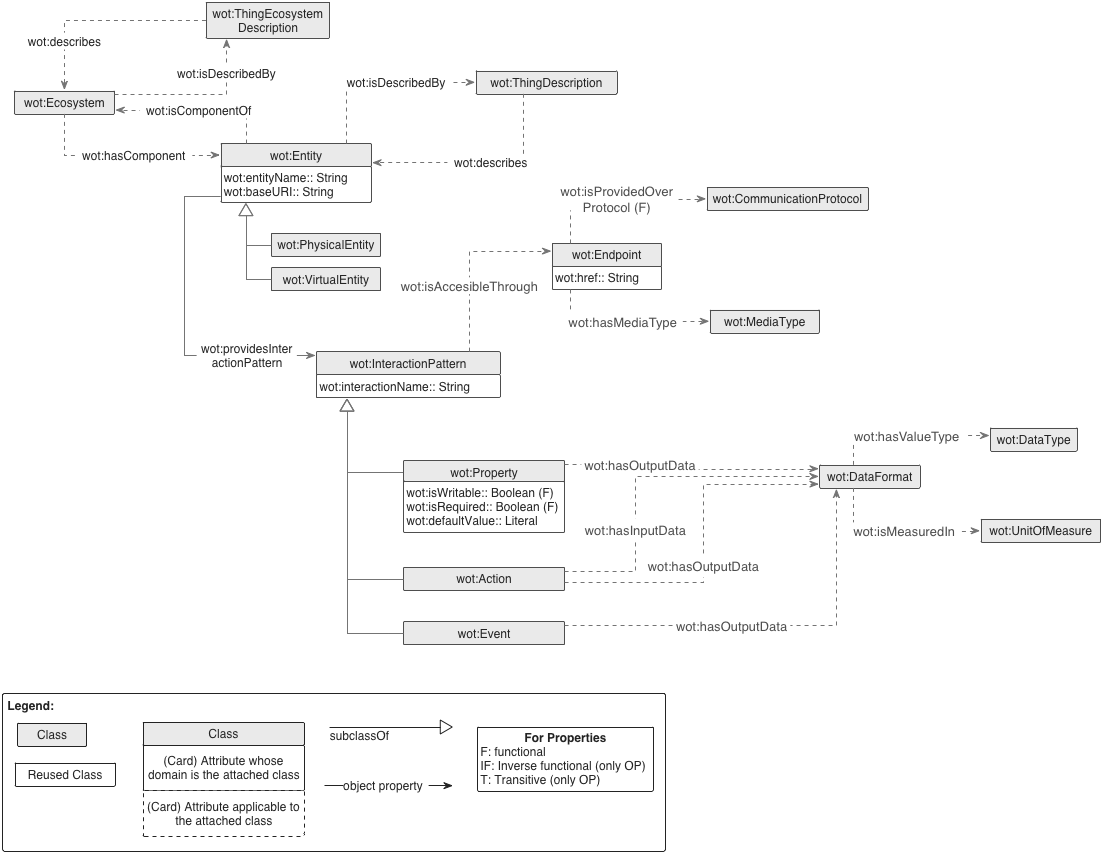
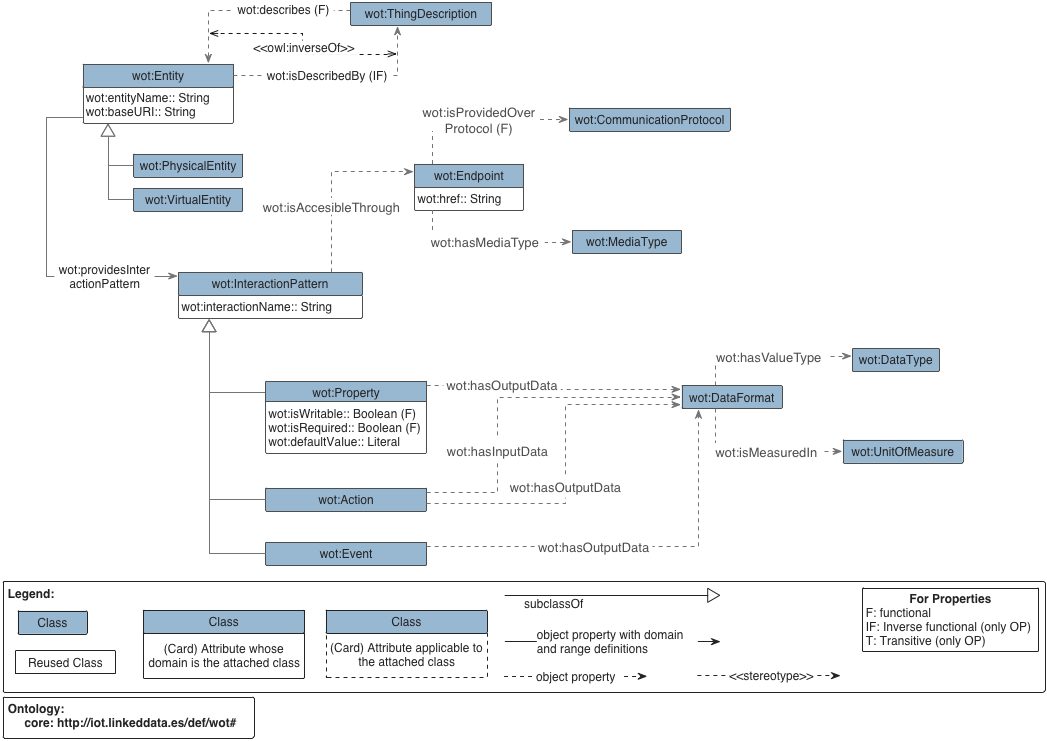
version 0.0.2

diff --git a/OnToology/ontology/wot.ttl/documentation/index-en.html b/OnToology/ontology/wot.ttl/documentation/index-en.html
@@ -22,31 +22,42 @@ function loadHash() {
     </script> 
   </head> 
 
-<body resource="[Ontology URI]" typeOf="owl:Ontology schema:TechArticle">
+<body resource="http://iot.linkeddata.es/def/wot#" typeOf="owl:Ontology schema:TechArticle">
 <span resource="" typeOf="foaf:Document schema:WebPage">
 <span property="dc:contributor prov:wasAttributedTo schema:contributor" resource="http://purl.org/net/dgarijo"></span>
 </span>
 <div class="container"><div class="head">
 <div style="float:right">language <a href="index-en.html"><b>en</b></a> </div>
-<dl><dt>Download serialization:</dt><dd><span><a href="ontology.n3" target="_blank"><img src="https://img.shields.io/badge/Format-N_Triples-blue.svg"</img></a> </span><span><a href="ontology.xml" target="_blank"><img src="https://img.shields.io/badge/Format-RDF/XML-blue.svg"</img></a> </span><span><a href="ontology.ttl" target="_blank"><img src="https://img.shields.io/badge/Format-TTL-blue.svg"</img></a> </span></dd></dl><dl><dt>License: </dt><dd><a rel="license" href="http://creativecommons.org/licenses/by-nc-sa/2.0/" target="_blank"><img src ="https://img.shields.io/badge/License-License name. E.g.: Creative Commons Attribution_NonCommercial_ShareAlike 2.0 Generic License-blue.svg"</img></a>
-<span property="dc:license" resource="http://creativecommons.org/licenses/by-nc-sa/2.0/"></span>
-<a property="dc:rights" href="http://creativecommons.org/licenses/by-nc-sa/2.0/" rel="license" target="_blank">
-<img src="http://i.creativecommons.org/l/by-nc-sa/2.0/88x31.png" style="border-width:0" alt="License"></img>
-</a>
+
+<h1 property="dc:title schema:name">WoT ontology</h1>
+<dl>
+<dt>This version:</dt>
+<dd><a href="http://iot.linkeddata.es/def/wot">http://iot.linkeddata.es/def/wot</a></dd>
+</dl><dt>Revision:</dt>
+<dd property="schema:version">0.0.2</dd>
+<dl><dt>Authors:</dt>
+<dd><a property="dc:creator schema:author prov:wasAttributedTo" resource="http://purl.org/net/mpoveda" href="http://purl.org/net/mpoveda">María Poveda Villalón</a></dd>
+<dd><a property="dc:creator schema:author prov:wasAttributedTo" resource="http://www.garcia-castro.com/foaf.rdf#me" href="http://www.garcia-castro.com/foaf.rdf#me">Raúl García Castro</a></dd></dl>
+<dd><a property="dc:creator schema:author prov:wasAttributedTo" resource="http://www.oeg-upm.net/index.php/en/universitystaff/402-fserena/" href="http://www.oeg-upm.net/index.php/en/universitystaff/402-fserena/">Fernando Serena</a></dd></dl>
+
+
+
+<dl><dt>Download serialization:</dt><dd><span><a href="ontology.n3" target="_blank"><img src="https://img.shields.io/badge/Format-N_Triples-blue.svg"</img></a> </span><span><a href="ontology.xml" target="_blank"><img src="https://img.shields.io/badge/Format-RDF/XML-blue.svg"</img></a> </span><span><a href="ontology.ttl" target="_blank"><img src="https://img.shields.io/badge/Format-TTL-blue.svg"</img></a> </span></dd></dl><dl><dt>
+License: </dt><dd><a rel="license" href="http://purl.org/NET/rdflicense/cc-by4.0" target="_blank"><img src ="https://img.shields.io/badge/License-Creative Commons CC_BY-blue.svg"</img></a>
 <br/></dd></dl><dl><a href="provenance/provenance-en.html" target="_blank">Provenance of this page</a></dl><hr/>
 </div>
 <div class="status">
 <div>
-<span>Specification Draft</span>
+<span>Ontology draft</span>
 </div>
 </div>     <div id="abstract"></div>
 <div id="toc"><h2>Table of contents</h2>
 <ul>
 <li><a href="#introduction">1. Introduction</a></li>
 <ul><li><a href="#namespacedeclarations">1.1 Namespace declarations</a></li></ul>
-<li><a href="#overview">2. [Ontology Name]: Overview</a></li>
-<li><a href="#description">3. [Ontology Name]: Description</a></li>
-<li><a href="#crossref">4. Cross reference for [Ontology Name] classes, properties and dataproperties</a></li>
+<li><a href="#overview">2. WoT: Overview</a></li>
+<li><a href="#description">3. WoT: Description</a></li>
+<li><a href="#crossref">4. Cross reference for WoT classes, properties and dataproperties</a></li>
 <ul>
 <li><a href="#classes">4.1 Classes</a></li>
 <li><a href="#objectproperties">4.2 Object Properties</a></li>

diff --git a/OnToology/ontology/wot.ttl/documentation/sections/description-en.html b/OnToology/ontology/wot.ttl/documentation/sections/description-en.html
@@ -1,2 +1,10 @@
-<h2>3. [Ontology Name]: Description <span class="backlink"> back to <a href="#toc">ToC</a></span></h2>
-<p>Complete description of the ontology: a diagram explaining how the classes are related, examples of usage, etc.</p>
+<h2>3. WoT: Description <span class="backlink"> back to <a href="#toc">ToC</a></span></h2>
+
+<p>Figure 1 provides a general overview of the current status of the WoT ontology. It is worth noting that some elements might be deleted and the model is not final as some aspects of the WoT current practices have not been addressed yet, like the security aspects. </p>
+<center><img src="resources/images/WoTOntology.png" alt="General overview of the WoT ontology.">   <figcaption>Figure 1. - General overview of the WoT ontology main classes and properties.</figcaption></center>
+
+<p>Figure 2 provides an example of population of the WoT ontology for the "Example 3: More Capabilities" example provided at <a href="http://w3c.github.io/wot/current-practices/wot-practices.html#quick-start-td-samples">WoT Current Practices (Unofficial Draft 22 December 2016)</a> 
+.</p>
+
+<center><img src="resources/images/WOTexample1.png" alt="Example of a Thing interaction patterns.">   <figcaption>Figure 2. - Example of a Thing interaction patterns.</figcaption></center>
+

diff --git a/OnToology/ontology/wot.ttl/documentation/sections/introduction-en.html b/OnToology/ontology/wot.ttl/documentation/sections/introduction-en.html
@@ -1,5 +1,5 @@
 <h2>1. Introduction <span class="backlink"> back to <a href="#toc">ToC</a></span></h2>
-<p>This should talk a bit about your ontology, its motivation, soa and goals</p>
+<p>This ontology aims to model the Web of Things domain according to the <a href="http://w3c.github.io/wot/">w3c Interest Group</a>. More details to come.</p>
 <div id="namespacedeclarations">
 <h2>1.1. Namespace declarations<span class="backlink"> back to <a href="#toc">ToC</a></span></h2>
 </p><div id="ns" align="center">
@@ -8,7 +8,7 @@
 <tbody>
 <tr><td><b>dc</b></td><td>&lt;http://purl.org/dc/elements/1.1/&gt;</td></tr>
 <tr><td><b>ns</b></td><td>&lt;http://www.w3.org/2003/06/sw-vocab-status/ns#&gt;</td></tr>
-<tr><td><b>[Ontology NS Prefix]</b></td><td>&lt;http://iot.linkeddata.es/def/wot#&gt;</td></tr>
+<tr><td><b>wot</b></td><td>&lt;http://iot.linkeddata.es/def/wot#&gt;</td></tr>
 <tr><td><b>terms</b></td><td>&lt;http://purl.org/dc/terms/&gt;</td></tr>
 <tr><td><b>vann</b></td><td>&lt;http://purl.org/vocab/vann/&gt;</td></tr>
 <tr><td><b>net</b></td><td>&lt;http://purl.org/net/&gt;</td></tr>
